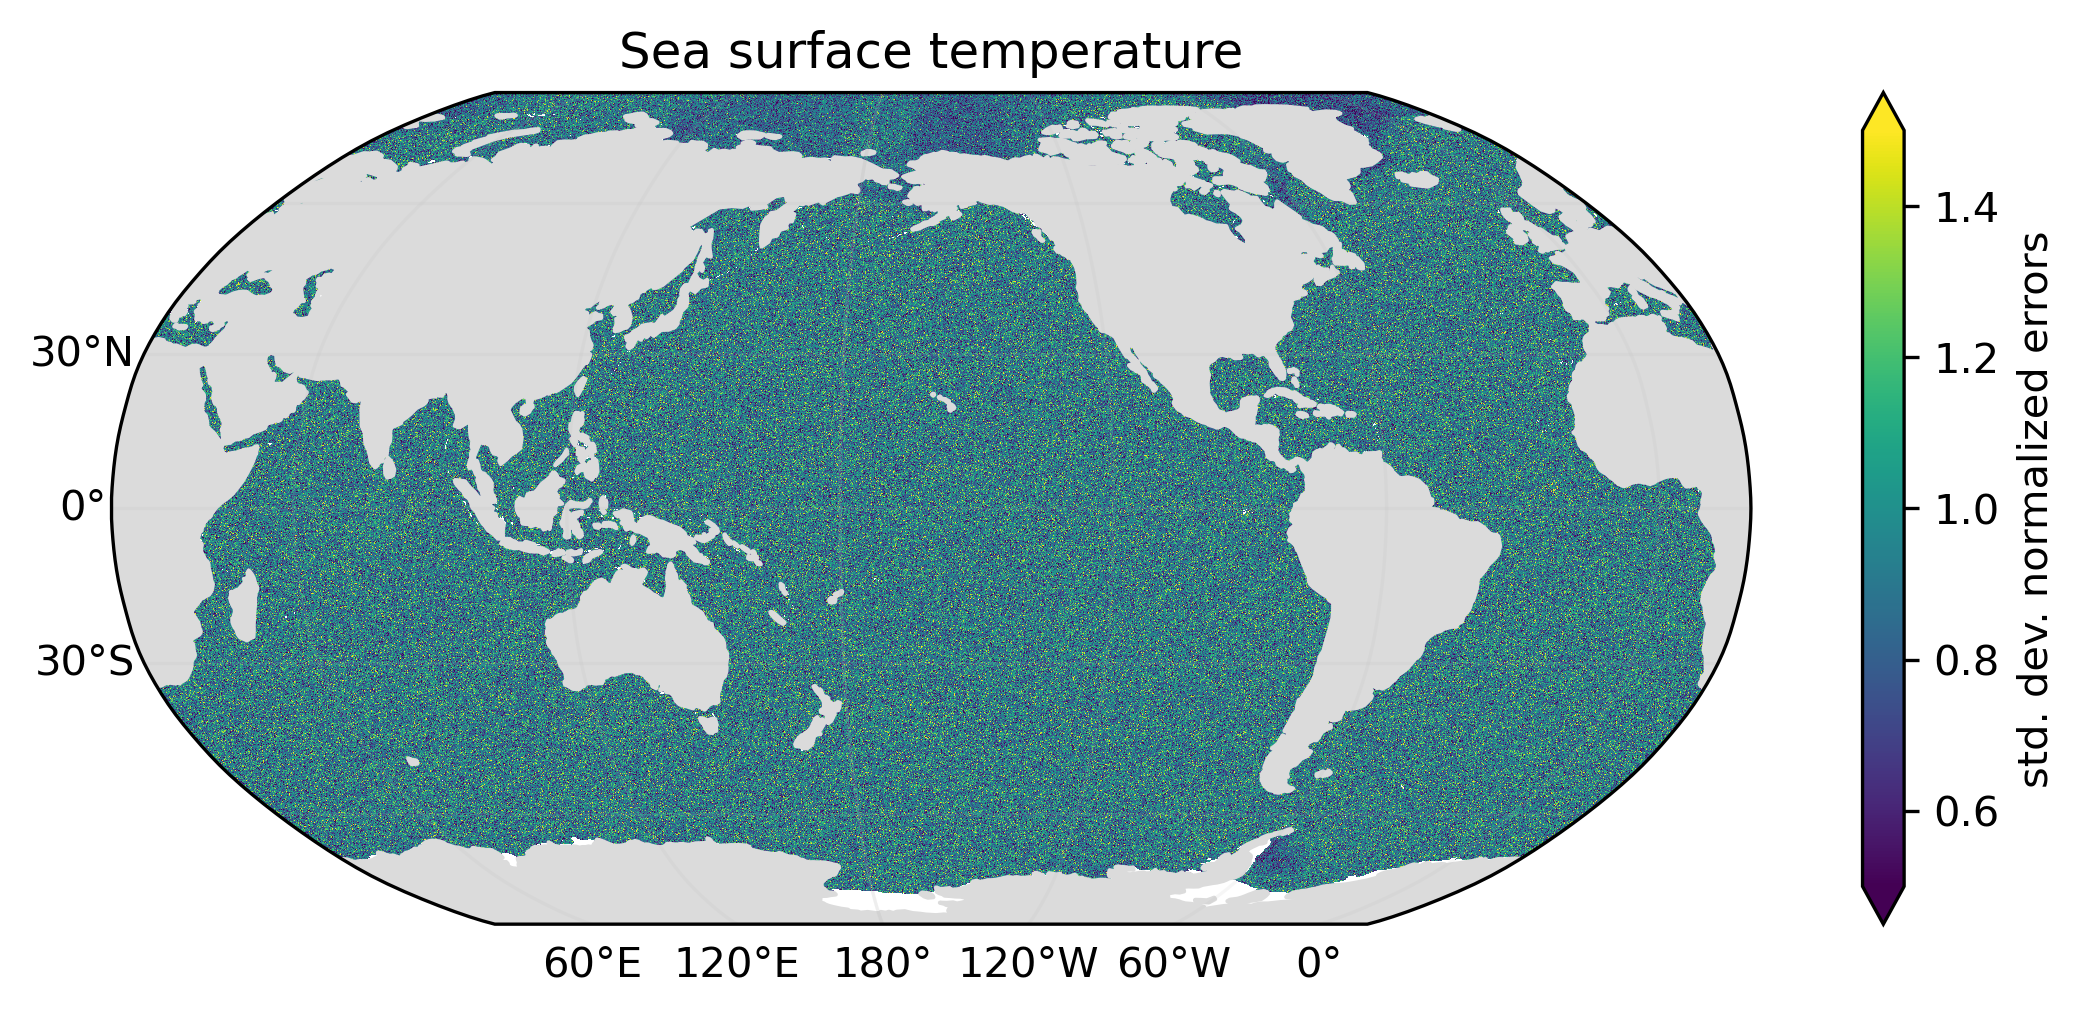
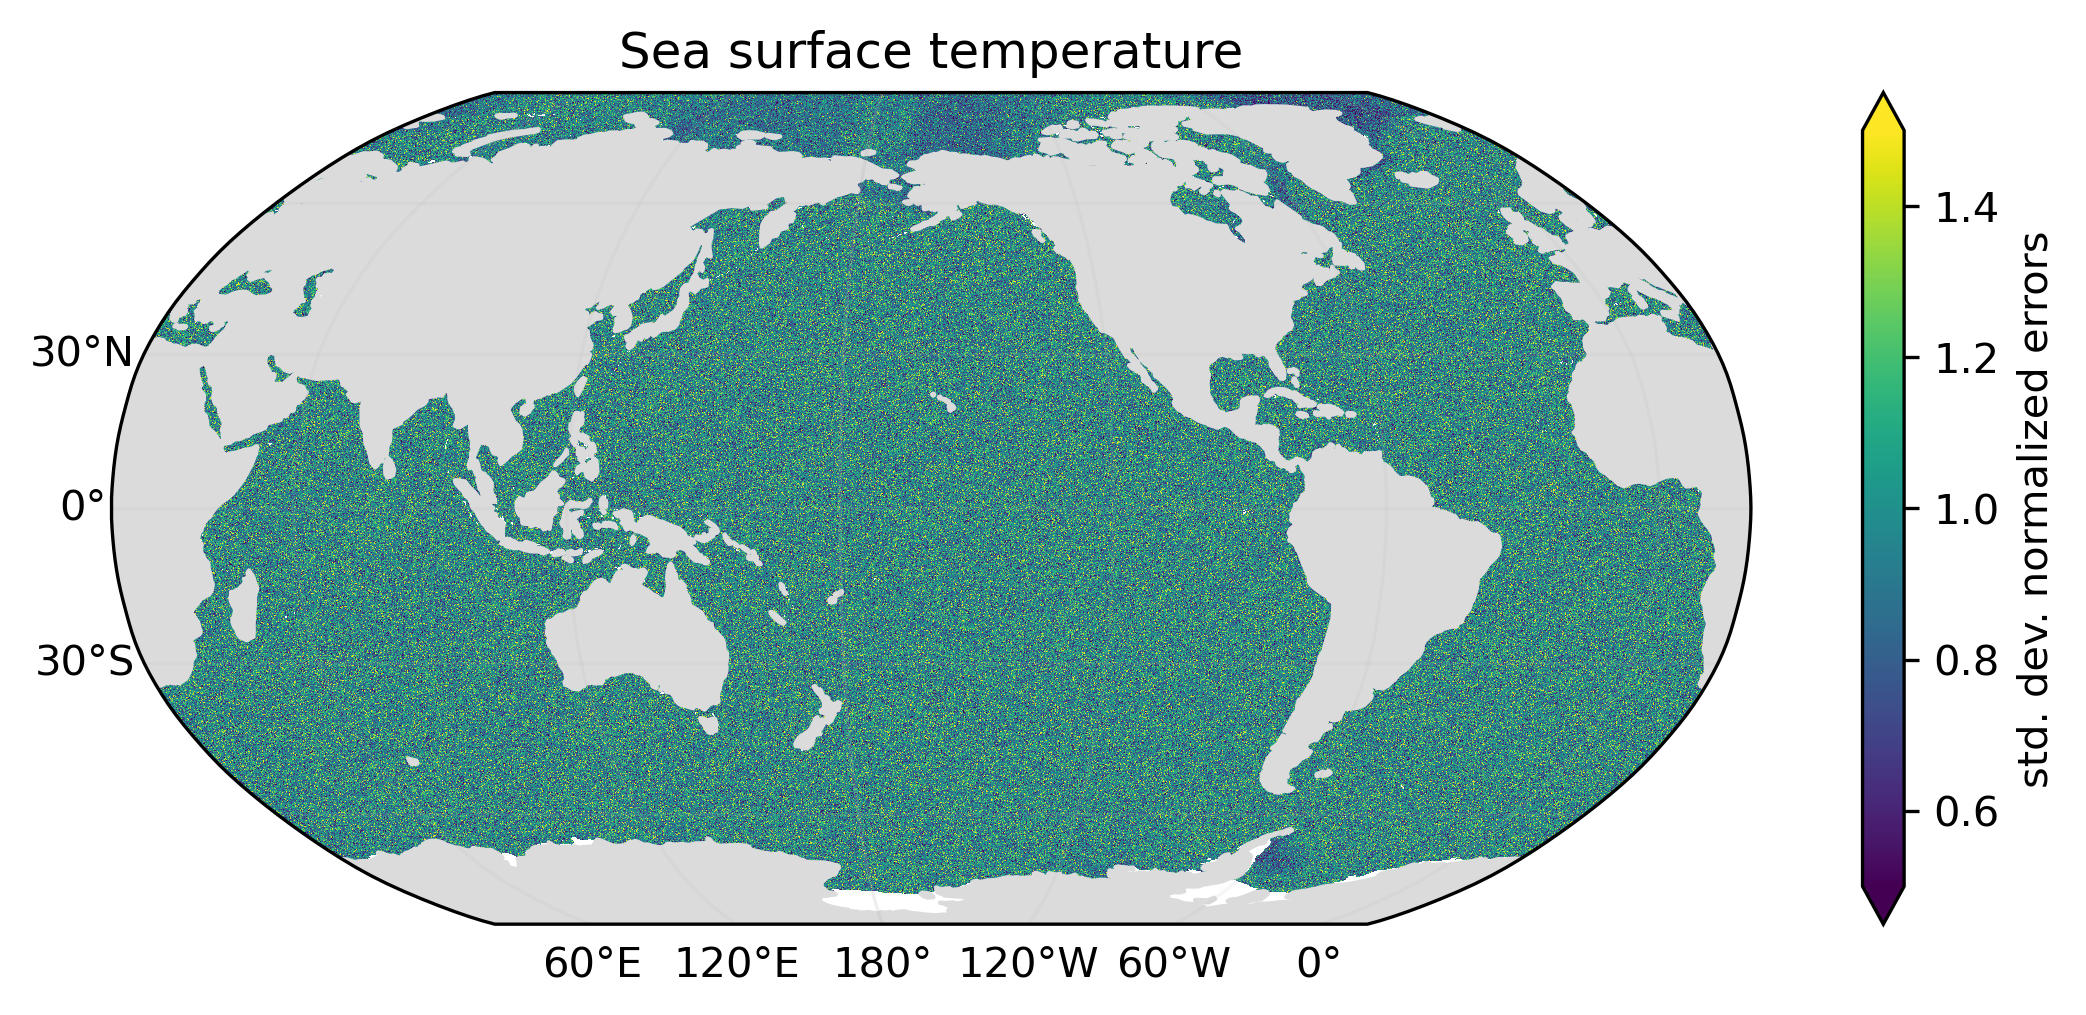
Fix: wrong uncertainty calculation

diff --git a/kaleidoscope/operators/collectop.py b/kaleidoscope/operators/collectop.py
@@ -16,16 +16,45 @@ from xarray import Dataset
 
 from ..algorithms.codec import decode
 from ..algorithms.codec import encode
+from ..algorithms.filter import Gaussian
 from ..interface.logging import Logging
 from ..interface.operator import Operator
 from ..logger import get_logger
 
 
-def _std(x: da.Array) -> da.Array:
-    """Returns the standard deviation."""
+def _filter(x: da.Array, dims: tuple) -> da.Array:
+    """
+    Applies a lateral low pass filter to suppress statistical
+    fluctuations caused by finite sampling of error probability
+    density functions.
+    """
+    return Gaussian(dtype=x.dtype, m=x.ndim, n=x.ndim).apply_to(
+        x, dims=dims, fwhm=4.0
+    )
+
+
+def _std(x: da.Array, dims: tuple, filtered: bool = False) -> da.Array:
+    """
+    Returns the standard deviation of simulated errors.
+
+    Here, the standard deviation corresponds to the root
+    mean squared error, since the mean simulated error
+    vanishes. The standard deviation can be low-pass filtered
+    to suppress statistical fluctuations resulting from the
+    Monte Carlo method.
+    """
+    return da.sqrt(
+        _filter(_mse(x[1:] - x[:1]), dims)
+        if filtered
+        else _mse(x[1:] - x[:1])
+    )
+
+
+def _mse(errors: da.Array) -> da.Array:
+    """Returns the mean squared error."""
     return da.where(
-        da.count_nonzero(da.isfinite(x), axis=0) > 0,
-        da.nanstd(x, axis=0),
+        da.count_nonzero(da.isfinite(errors), axis=0) > 0,
+        da.nanmean(da.square(errors), axis=0),
         np.nan,
     )
 
@@ -57,46 +86,67 @@ class CollectOp(Operator):
         """
         config: dict[str : dict[str:Any]] = self.config
         target: Dataset = source.isel(i=0)
-        subset: Dataset = source.isel(i=slice(1, None))
         for v, x in target.data_vars.items():
             if v not in config:
                 continue
-            v_unc = config[v].get("uncertainty", f"{v}_unc")
-            if v_unc in target:
-                continue
-            get_logger().info(f"starting graph for variable: {v_unc}")
-            x_unc = _std(decode(subset[v].data, x.attrs))
-            get_logger().info(f"finished graph for variable: {v_unc}")
-            target[v_unc] = DataArray(
-                data=encode(x_unc, x.attrs, x.dtype),
-                coords=x.coords,
-                dims=x.dims,
-                attrs=x.attrs,
-            )
-            for name in config[v].get("attrs_pop", []):
-                target[v_unc].attrs.pop(name, None)
-            target[v_unc].attrs.update(config[v].get("attrs", {}))
-            if "actual_range" in target[v_unc].attrs:
-                target[v_unc].attrs["actual_range"] = np.array(
-                    [
-                        da.nanmin(x_unc).compute(),
-                        da.nanmax(x_unc).compute(),
-                    ],
-                    dtype=x_unc.dtype,
-                )
-            if "standard_name" in target[v_unc].attrs:
-                standard_name = target[v_unc].attrs["standard_name"]
-                target[v_unc].attrs[
-                    "standard_name"
-                ] = f"{standard_name} standard_error"
-            if get_logger().is_enabled(Logging.DEBUG):
-                get_logger().debug(f"min:  {da.nanmin(x_unc).compute() :.3f}")
-                get_logger().debug(f"max:  {da.nanmax(x_unc).compute() :.3f}")
-                get_logger().debug(
-                    f"mean: {da.nanmean(x_unc).compute() :.3f}"
-                )
-                get_logger().debug(f"std:  {da.nanstd(x_unc).compute() :.3f}")
+            self.add_uncertainty(target, source, v, x)
+            self.add_uncertainty(target, source, v, x, filtered=True)
         return target
+
+    def add_uncertainty(self, target, source, v, x, filtered: bool = False):
+        """
+        Adds an uncertainty variable to the target dataset.
+
+        :param target: The target dataset.
+        :param source: The source dataset.
+        :param v: The name of the source variable.
+        :param x: The data of the source variable.
+        :param filtered: To apply a low-pass filter to the error variance.
+        """
+        config: dict[str : dict[str:Any]] = self.config
+        v_unc = config[v].get("uncertainty", f"{v}_unc")
+        if filtered:
+            v_unc = f"{v_unc}_filtered"
+        if v_unc in target:
+            return
+        get_logger().info(f"starting graph for variable: {v_unc}")
+        x_unc = _std(decode(source[v].data, x.attrs), x.dims, filtered)
+        get_logger().info(f"finished graph for variable: {v_unc}")
+        target[v_unc] = DataArray(
+            data=encode(x_unc, x.attrs, x.dtype),
+            coords=x.coords,
+            dims=x.dims,
+            attrs=x.attrs,
+        )
+        for attr in config[v].get("attrs_pop", []):
+            target[v_unc].attrs.pop(attr, None)
+        if "actual_range" in target[v_unc].attrs:
+            target[v_unc].attrs["actual_range"] = np.array(
+                [
+                    da.nanmin(x_unc).compute(),
+                    da.nanmax(x_unc).compute(),
+                ],
+                dtype=x_unc.dtype,
+            )
+        if "standard_name" in target[v_unc].attrs:
+            standard_name = target[v_unc].attrs["standard_name"]
+            target[v_unc].attrs[
+                "standard_name"
+            ] = f"{standard_name} standard_error"
+        if "title" in target[v_unc].attrs:
+            title = target[v_unc].attrs["title"]
+            target[v_unc].attrs["title"] = f"standard uncertainty of {title}"
+        target[v_unc].attrs.update(config[v].get("attrs", {}))
+        if filtered:
+            target[v_unc].attrs["comment"] = (
+                "filtered variant of standard uncertainty using a lateral "
+                "low-pass filter"
+            )
+        if get_logger().is_enabled(Logging.DEBUG):
+            get_logger().debug(f"min:  {da.nanmin(x_unc).compute() :.3f}")
+            get_logger().debug(f"max:  {da.nanmax(x_unc).compute() :.3f}")
+            get_logger().debug(f"mean: {da.nanmean(x_unc).compute() :.3f}")
+            get_logger().debug(f"std:  {da.nanstd(x_unc).compute() :.3f}")
 
     @property
     def config(self) -> dict[str : dict[str:Any]]:

diff --git a/kaleidoscope/algorithms/filter.py b/kaleidoscope/algorithms/filter.py
@@ -1,0 +1,135 @@
+#  Copyright (c) Brockmann Consult GmbH, 2024
+#  License: MIT
+
+"""
+This module provides the algorithm to apply low-pass filters.
+"""
+
+from numbers import Real
+
+from dask import array as da
+from dask_image.ndfilters import gaussian_filter
+from dask_image.ndfilters import median_filter
+from dask_image.ndfilters import uniform_filter
+from typing_extensions import override
+
+from ..interface.algorithm import Algorithm
+
+
+class Gaussian(Algorithm):
+    """
+    Applies a lateral Gaussian filter to data.
+
+    The implementation does not propagate NaN.
+    """
+
+    @override
+    def apply_to(
+        self, data: da.Array, *, dims: tuple[str, ...], fwhm: Real = 1.0
+    ) -> da.Array:
+        """
+        Applies a lateral Gaussian filter to data.
+
+        :param data: The data.
+        :param dims: The dimension names.
+        :param fwhm: The full width at half maximum of the Gaussian
+        kernel (pixels).
+        :return: The filtered data.
+        """
+        sigma = [
+            (
+                fwhm / 2.35482
+                if dim.startswith("lat") or dim.startswith("lon")
+                else 0.0
+            )
+            for dim in dims
+        ]
+        modes = [
+            "wrap" if dim.startswith("lon") else "constant" for dim in dims
+        ]
+        m = da.isnan(data)
+        v = da.where(m, 0.0, data)
+        w = da.where(m, 0.0, 1.0)
+        v = gaussian_filter(v, sigma, mode=modes)
+        w = gaussian_filter(w, sigma, mode=modes)
+        return da.where(m, data, v / w)
+
+    @property
+    @override
+    def name(self) -> str:
+        return "gaussian_filter"
+
+
+class Median(Algorithm):
+    """
+    Applies a lateral median filter to data.
+
+    The implementation does not propagate NaN.
+    """
+
+    @override
+    def apply_to(
+        self, data: da.Array, *, dims: tuple[str, ...], size: int = 3
+    ) -> da.Array:
+        """
+        Applies a lateral median filter to data.
+
+        :param data: The data.
+        :param dims: The dimension names.
+        :param size: The size of the uniform kernel (pixels).
+        :return: The filtered data.
+        """
+        sizes = [
+            (size if dim.startswith("lat") or dim.startswith("lon") else 1)
+            for dim in dims
+        ]
+        m = da.isnan(data)
+        v = da.where(m, 0.0, data)
+        w = da.where(m, 0.0, 1.0)
+        v = median_filter(v, sizes, mode="constant")
+        w = median_filter(w, sizes, mode="constant")
+        return da.where(m, data, v / w)
+
+    @property
+    @override
+    def name(self) -> str:
+        return "median_filter"
+
+
+class Uniform(Algorithm):
+    """
+    Applies a lateral uniform (i.e., mean) filter to data.
+
+    The implementation does not propagate NaN.
+    """
+
+    @override
+    def apply_to(
+        self, data: da.Array, *, dims: tuple[str, ...], size: int = 3
+    ) -> da.Array:
+        """
+        Applies a lateral uniform (i.e., mean) filter to data.
+
+        :param data: The data.
+        :param dims: The dimension names.
+        :param size: The size of the uniform kernel (pixels).
+        :return: The filtered data.
+        """
+        sizes = [
+            (size if dim.startswith("lat") or dim.startswith("lon") else 1)
+            for dim in dims
+        ]
+        modes = [
+            "wrap" if dim.startswith("lon") else "constant" for dim in dims
+        ]
+        m = da.isnan(data)
+        v = da.where(m, 0.0, data)
+        w = da.where(m, 0.0, 1.0)
+        v = uniform_filter(v, sizes, mode=modes)
+        w = uniform_filter(w, sizes, mode=modes)
+        return da.where(m, data, v / w)
+
+    @property
+    @override
+    def name(self) -> str:
+        return "uniform_filter"
